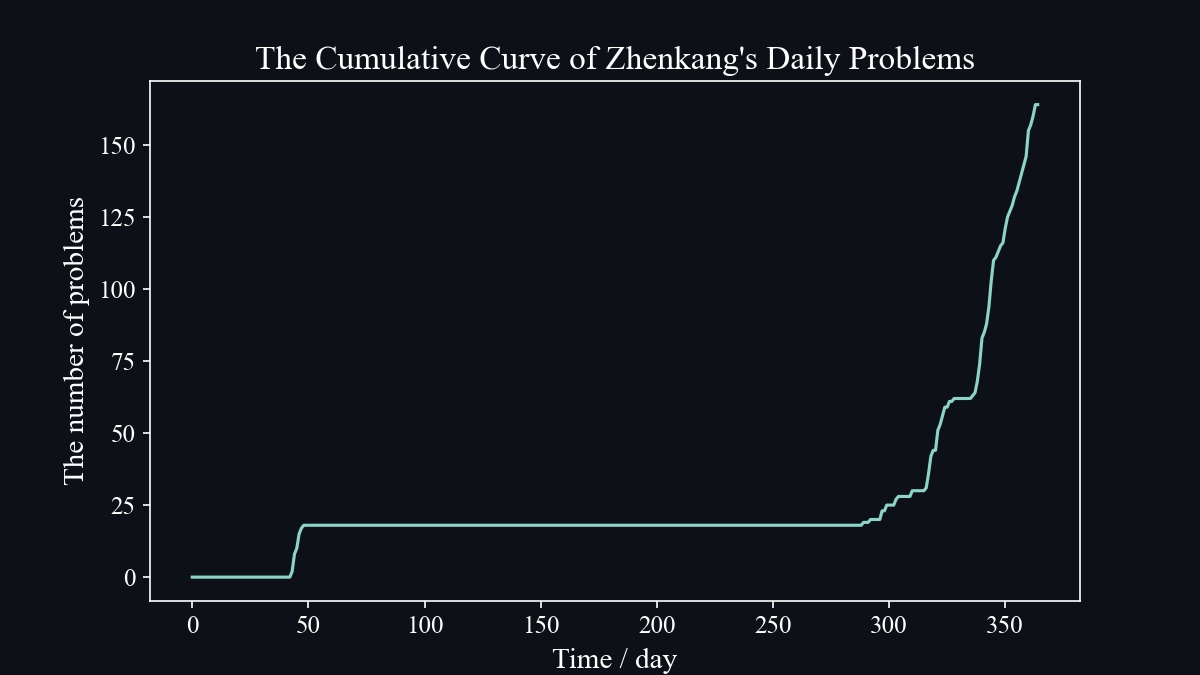
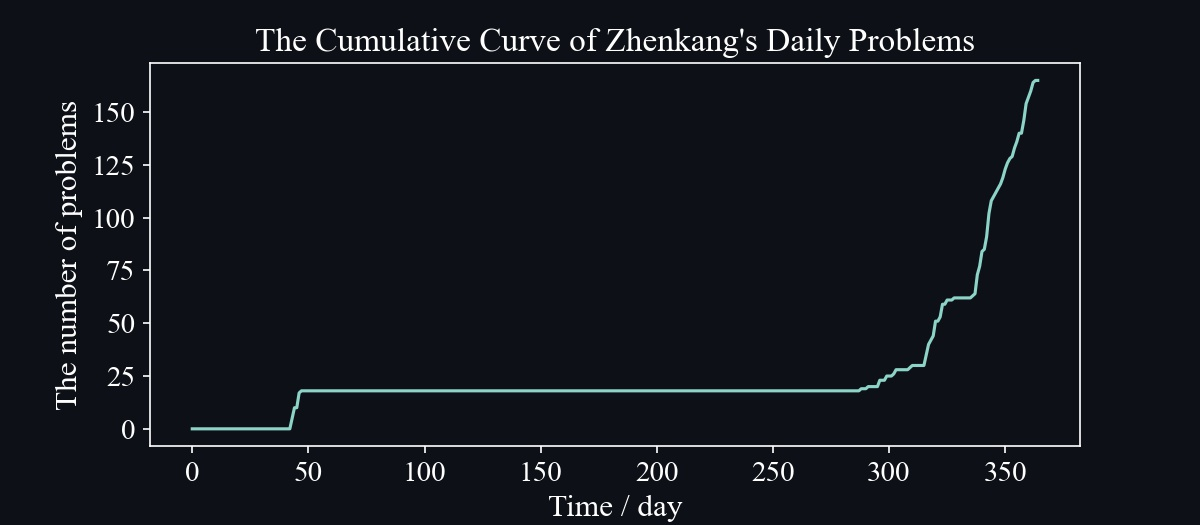
new figure

diff --git a/myFunction.py b/myFunction.py
@@ -126,17 +126,19 @@ class myFunction:
 if __name__ == '__main__':
     myfunc = myFunction()
     # Statistics
-    # hourslist, yearsDict,dayslist = myfunc.statistics('./code/')
+    hourslist, yearsDict,dayslist = myfunc.statistics('./code/')
     # hourslist = [4, 0, 0, 0, 0, 0, 0, 0, 0, 3, 22, 10, 5, 8, 10, 11, 7, 16, 1, 13, 16, 4, 2, 4]
     # yearsDict = {2020: [0, 0, 0, 0, 0, 0, 0, 0, 0, 0, 0, 18], 2021: [0, 0, 0, 0, 0, 0, 0, 12, 68, 38, 0, 0]}
-    hourslist = [5, 0, 0, 0, 0, 0, 0, 0, 0, 0, 24, 20, 6, 6, 10, 12, 10, 19, 4, 10, 15, 11, 7, 9]
-    yearsDict = {2020: [0, 0, 0, 0, 0, 0, 0, 0, 0, 0, 0, 18], 2021: [0, 0, 0, 0, 0, 0, 0, 12, 68, 70, 0, 0]}
+    # hourslist = [5, 0, 0, 0, 0, 0, 0, 0, 0, 0, 24, 20, 6, 6, 10, 12, 10, 19, 4, 10, 15, 11, 7, 9]
+    # yearsDict = {2020: [0, 0, 0, 0, 0, 0, 0, 0, 0, 0, 0, 18], 2021: [0, 0, 0, 0, 0, 0, 0, 12, 68, 70, 0, 0]}
     totalProblems = sum(hourslist)
      # 设置字号
-    fontSize = 12
+    fontSize = 14
+    fontSizeLabel = fontSize + 1
+    fontSizeTitle = fontSize + 2
     myDPI = 150
-    figSize = (8, 4.5)
-    
+    figSize = (8, 3.5)
+    bottomSize = 0.15
     plt.style.use('dark_background')
     githubColor = [13/255,17/255,23/255] # 匹配github色彩
     fig_hours, ax = plt.subplots(figsize=figSize,facecolor=githubColor) # ,facecolor='black'
@@ -155,10 +157,11 @@ if __name__ == '__main__':
    
     plt.xticks(size=fontSize)
     plt.yticks(size=fontSize)
-    plt.xlabel('Time / hour',fontsize=fontSize+2)
-    plt.ylabel('The percentage of problems / %',fontsize=fontSize+2)
-    plt.title("Hourly Distribution of Zhenkang's Study Time", fontsize=fontSize+4) # 设置标题
-    # plt.savefig('.//image//HourlyDistribution.jpg', dpi=myDPI,facecolor=githubColor)
+    plt.xlabel('Time / hour',fontsize=fontSizeLabel)
+    plt.ylabel('The percentage of problems / %',fontsize=fontSizeLabel)
+    plt.title("Hourly Distribution of Zhenkang's Study Time", fontsize=fontSizeTitle) # 设置标题
+    plt.subplots_adjust(bottom=bottomSize)
+    plt.savefig('.//image//HourlyDistribution.jpg', dpi=myDPI,facecolor=githubColor)
     
     # plt.xticks(fontsize = 30)
     
@@ -179,10 +182,11 @@ if __name__ == '__main__':
     # fontSize = 15
     plt.xticks(size=fontSize)
     plt.yticks(size=fontSize)
-    plt.xlabel('Time / month',fontsize=fontSize+2)
-    plt.ylabel('The percentage of problems / %',fontsize=fontSize+2)
-    plt.title("Monthly Distribution of Zhenkang's Study Time in 2021", fontsize=fontSize+4) # 设置标题
-    # plt.savefig('.//image//MonthlyDistribution.jpg', dpi=myDPI,facecolor=githubColor)
+    plt.xlabel('Time / month',fontsize=fontSizeLabel)
+    plt.ylabel('The percentage of problems / %',fontsize=fontSizeLabel)
+    plt.title("Monthly Distribution of Zhenkang's Study Time in 2021", fontsize=fontSizeTitle) # 设置标题
+    plt.subplots_adjust(bottom=bottomSize)
+    plt.savefig('.//image//MonthlyDistribution.jpg', dpi=myDPI,facecolor=githubColor)
     # plt.xticks(fontsize = 30)
     
     fig_days, ax = plt.subplots(figsize = figSize,facecolor=githubColor)
@@ -196,10 +200,11 @@ if __name__ == '__main__':
     
     plt.xticks(size=fontSize)
     plt.yticks(size=fontSize)
-    plt.xlabel('Time / day',fontsize=fontSize+2)
-    plt.ylabel('The number of problems',fontsize=fontSize+2)
-    plt.title("The Cumulative Curve of Zhenkang's Daily Problems", fontsize=fontSize+4) # 设置标题
-    # plt.savefig('.//image//DailyDistribution.jpg', dpi=myDPI,facecolor=githubColor)
+    plt.xlabel('Time / day',fontsize=fontSizeLabel)
+    plt.ylabel('The number of problems',fontsize=fontSizeLabel)
+    plt.title("The Cumulative Curve of Zhenkang's Daily Problems", fontsize=fontSizeTitle) # 设置标题
+    plt.subplots_adjust(bottom=bottomSize)
+    plt.savefig('.//image//DailyDistribution.jpg', dpi=myDPI,facecolor=githubColor)
 
     
     # Name2MarkdownList
